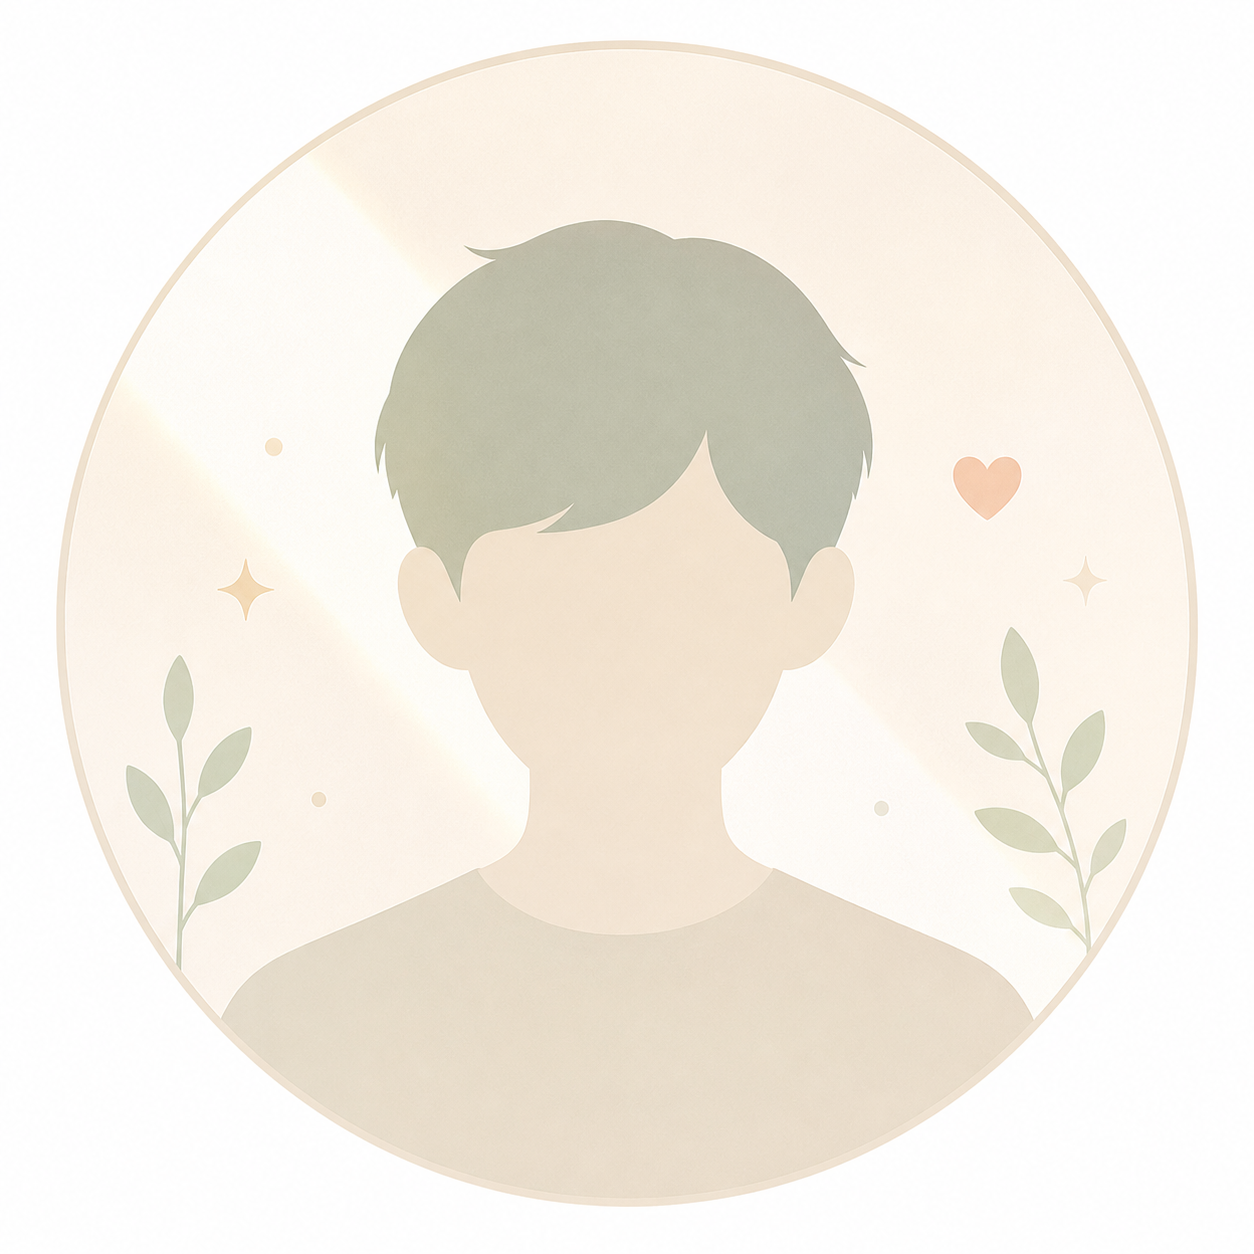
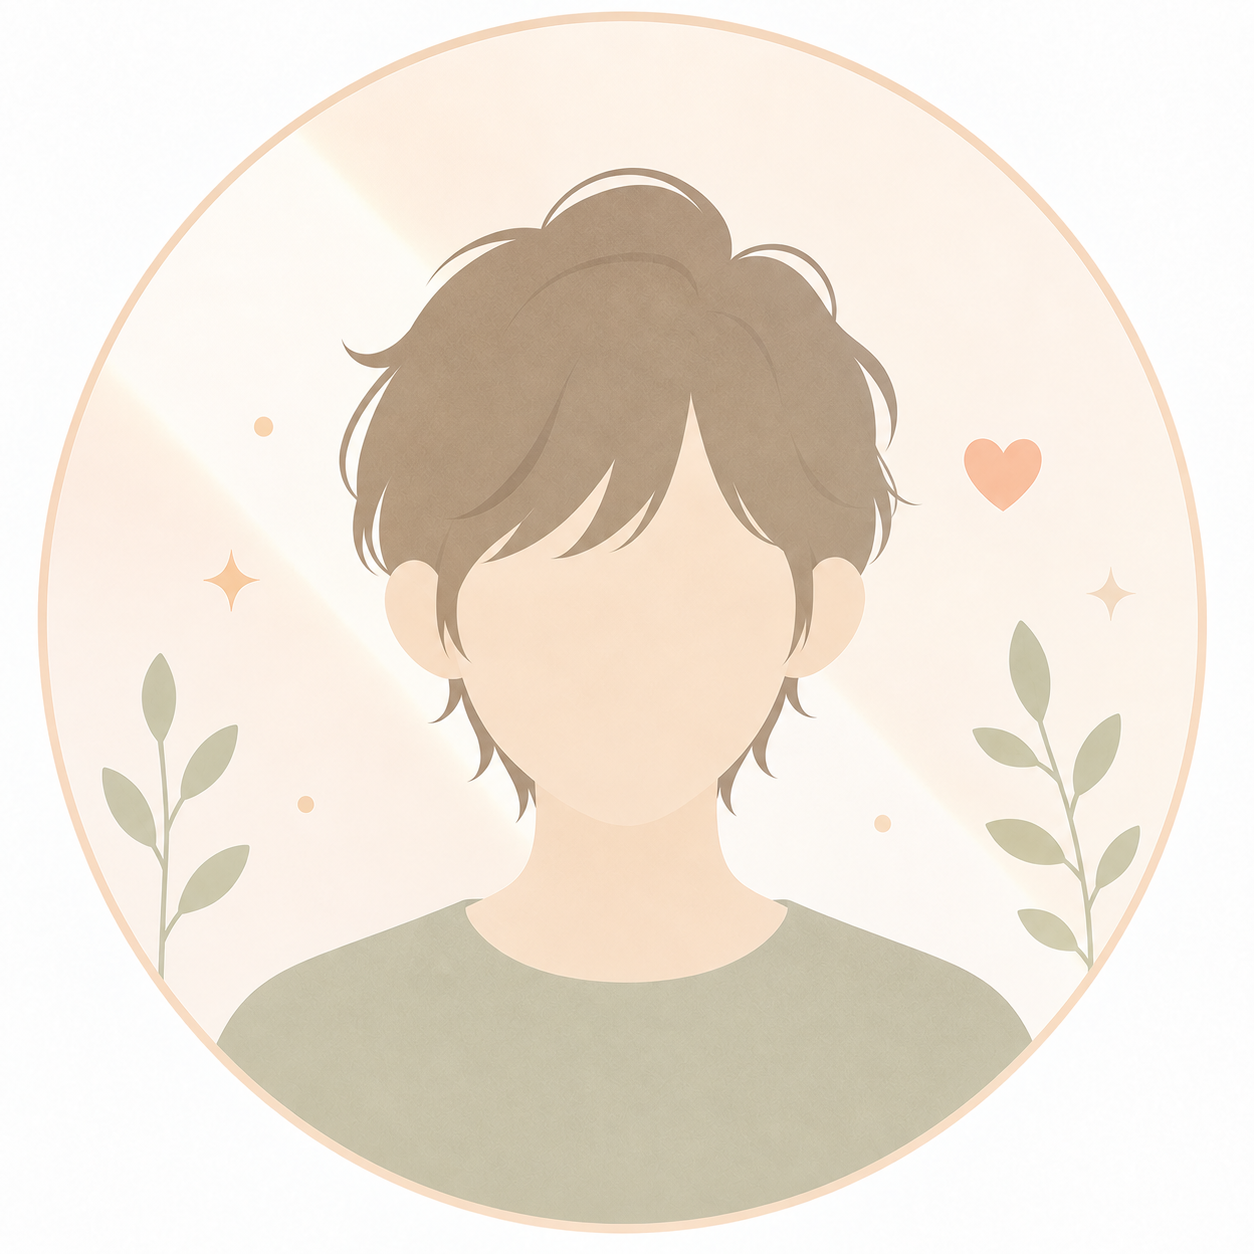
[fix&feat] 캘린더를 table로 변경 + NONE 성별 대응 이미지 추가

diff --git a/src/pages/profilepage/EmotionCalendar.jsx b/src/pages/profilepage/EmotionCalendar.jsx
@@ -4,6 +4,7 @@ import {
     formatYearMonthLabel,
     formatDayLabel,
     todayDateString,
+    isFutureDate,
 } from "./calendarView";
 
 const WEEKDAYS = ["일", "월", "화", "수", "목", "금", "토"];
@@ -17,7 +18,10 @@ const LEVEL_CLASSES = {
     5: "bg-primary-dark/70",
 };
 
-const BLANK_CLASS = "bg-primary-light/20 border-primary-dark/10 text-textSecondary/60";
+// 기록 없는 지난 날 — 글자는 투명도 없이 textSecondary 그대로(배경 대비 약 6:1). 이전에 /60을 줘서 2.6:1로 떨어졌던 것을 바로잡음
+const BLANK_CLASS = "bg-primary-light/20 border-primary-dark/10 text-textSecondary";
+// 오늘 이후 날짜 — 아직 오지 않은 날이라 배경·테두리를 걷고 흐리게(기록이 있을 수 없는 칸이라 호버·클릭 대상도 아님)
+const FUTURE_CLASS = "border-transparent bg-transparent text-textSecondary opacity-40";
 const LEVEL_BORDER_CLASS = "border-primary-dark/20 text-textPrimary";
 // 기록은 있지만 분석이 없거나 실패한 날 — 색 대신 점선 테두리로 "기록 있음"만 알림
 const NO_SCORE_CLASS = "bg-white/40 border-dashed border-primary-dark/50 text-textPrimary";
@@ -31,18 +35,19 @@ const NAV_BUTTON_CLASS =
     "rounded-lg border border-primary-dark/20 px-3 py-1.5 text-sm text-textSecondary " +
     "hover:bg-primary-light/30 disabled:opacity-40 disabled:cursor-not-allowed disabled:hover:bg-transparent";
 
-const DayCell = ({ cell, info, isToday }) => {
-    if (!cell) return <div role="gridcell" aria-hidden="true" />;
+const DayCell = ({ cell, info, isToday, isFuture }) => {
+    if (!cell) return <div role="cell" aria-hidden="true" />;
 
-    const stateClass = !info
-        ? BLANK_CLASS
-        : info.level === null
-          ? NO_SCORE_CLASS
-          : `${LEVEL_CLASSES[info.level]} ${LEVEL_BORDER_CLASS}`;
+    // 미래 > 기록 없음 > 분석 없는 기록(점선) > 점수 명암 순으로 정함
+    let stateClass;
+    if (isFuture) stateClass = FUTURE_CLASS;
+    else if (!info) stateClass = BLANK_CLASS;
+    else if (info.level === null) stateClass = NO_SCORE_CLASS;
+    else stateClass = `${LEVEL_CLASSES[info.level]} ${LEVEL_BORDER_CLASS}`;
 
     return (
         <div
-            role="gridcell"
+            role="cell"
             aria-label={formatDayLabel(cell.date, info?.entryCount)}
             aria-current={isToday ? "date" : undefined}
             className={`relative h-12 sm:h-16 rounded-md border flex items-center justify-center text-sm ${stateClass} ${
@@ -53,7 +58,7 @@ const DayCell = ({ cell, info, isToday }) => {
             {info && info.entryCount > 1 && (
                 <span
                     aria-hidden="true"
-                    className="absolute right-1 top-0.5 text-[10px] leading-none text-textSecondary"
+                    className="absolute right-1 top-0.5 text-[11px] font-semibold leading-none text-textPrimary"
                 >
                     ×{info.entryCount}
                 </span>
@@ -92,7 +97,9 @@ const EmotionCalendar = ({ yearMonth, days, loading, canNext, onPrev, onNext }) 
                 </button>
             </div>
 
-            <div role="grid" aria-label={`${formatYearMonthLabel(yearMonth)} 감정 캘린더`}>
+            {/* 보기 전용 표라 role="table"로 둠 — "grid"는 화살표 키로 칸을 옮기는 위젯이라는 약속이라 키보드 이동이 없는 지금은 맞지 않음.
+                날짜 이동(⑦)이 붙어 칸이 링크가 돼도 표 안의 링크로 접근 가능하고, 화살표 이동까지 구현할 때 grid로 올리면 됨 */}
+            <div role="table" aria-label={`${formatYearMonthLabel(yearMonth)} 감정 캘린더`}>
                 <div role="row" className="grid grid-cols-7 gap-1.5 sm:gap-2 mb-1.5 sm:mb-2">
                     {WEEKDAYS.map((weekday) => (
                         <div
@@ -105,7 +112,7 @@ const EmotionCalendar = ({ yearMonth, days, loading, canNext, onPrev, onNext }) 
                     ))}
                 </div>
 
-                <div className={`space-y-1.5 sm:space-y-2 transition-opacity ${loading ? "opacity-60" : ""}`}>
+                <div role="rowgroup" className={`space-y-1.5 sm:space-y-2 transition-opacity ${loading ? "opacity-60" : ""}`}>
                     {weeks.map((week, weekIndex) => (
                         <div key={weekIndex} role="row" className="grid grid-cols-7 gap-1.5 sm:gap-2">
                             {week.map((cell, cellIndex) => (
@@ -114,6 +121,7 @@ const EmotionCalendar = ({ yearMonth, days, loading, canNext, onPrev, onNext }) 
                                     cell={cell}
                                     info={cell ? indexed[cell.date] : undefined}
                                     isToday={cell?.date === today}
+                                    isFuture={cell ? isFutureDate(cell.date) : false}
                                 />
                             ))}
                         </div>

diff --git a/src/pages/profilepage/calendarView.test.js b/src/pages/profilepage/calendarView.test.js
@@ -2,6 +2,7 @@ import { describe, expect, it } from "vitest";
 import {
     currentYearMonth,
     todayDateString,
+    isFutureDate,
     shiftYearMonth,
     canGoNext,
     formatYearMonthLabel,
@@ -23,6 +24,29 @@ describe("currentYearMonth / todayDateString", () => {
         const early = new Date(2026, 0, 5);
         expect(currentYearMonth(early)).toBe("2026-01");
         expect(todayDateString(early)).toBe("2026-01-05");
+    });
+});
+
+describe("isFutureDate", () => {
+    it("오늘보다 뒤면 미래다", () => {
+        expect(isFutureDate("2026-10-03", now)).toBe(true);
+        expect(isFutureDate("2026-11-01", now)).toBe(true);
+        expect(isFutureDate("2027-01-01", now)).toBe(true);
+    });
+
+    it("오늘과 지난 날짜는 미래가 아니다", () => {
+        expect(isFutureDate("2026-10-02", now)).toBe(false);
+        expect(isFutureDate("2026-10-01", now)).toBe(false);
+        expect(isFutureDate("2025-12-31", now)).toBe(false);
+    });
+
+    it("시각과 무관하게 날짜만 본다(오늘 자정 직전·직후도 같은 날)", () => {
+        expect(isFutureDate("2026-10-02", new Date(2026, 9, 2, 0, 0, 0))).toBe(false);
+        expect(isFutureDate("2026-10-03", new Date(2026, 9, 2, 23, 59, 59))).toBe(true);
+    });
+
+    it.each([null, undefined, "", "2026-10", "2026-10-3", "내일"])("형식이 틀리면(%s) false다", (value) => {
+        expect(isFutureDate(value, now)).toBe(false);
     });
 });
 

diff --git a/src/components/common/ProfileAvatar.jsx b/src/components/common/ProfileAvatar.jsx
@@ -1,13 +1,14 @@
 import { resolveAvatarKey } from "../../utils/avatar";
 import defaultMale from "../../assets/myPage/default_M.png";
 import defaultFemale from "../../assets/myPage/default_F.png";
+import defaultNone from "../../assets/myPage/default_N.png";
 
 // 성별(MALE | FEMALE | NONE)별 기본 아바타 — 마이페이지와 내비게이션이 함께 씀
-// TODO: NONE(비공개)용 이미지는 새로 만들 예정 — 그때까지 임시로 MALE 이미지를 씀
+// NONE(비공개)은 성별을 드러내지 않는 중립 이미지
 const AVATARS = {
     MALE: defaultMale,
     FEMALE: defaultFemale,
-    NONE: defaultMale,
+    NONE: defaultNone,
 };
 
 const ProfileAvatar = ({ gender, sizeClass = "w-16 h-16" }) => (

diff --git a/src/pages/profilepage/calendarView.js b/src/pages/profilepage/calendarView.js
@@ -19,6 +19,10 @@ export const currentYearMonth = (now = new Date()) => `${now.getFullYear()}-${pa
 export const todayDateString = (now = new Date()) =>
     `${now.getFullYear()}-${pad(now.getMonth() + 1)}-${pad(now.getDate())}`;
 
+// 오늘보다 뒤의 날짜인가 — "YYYY-MM-DD" 고정 형식이라 사전순 비교가 곧 시간순. 형식이 틀리면 false(오늘로 취급하지 않고 그냥 일반 칸)
+export const isFutureDate = (date, now = new Date()) =>
+    DATE_PATTERN.test(String(date ?? "")) && date > todayDateString(now);
+
 // 월 이동 — 연도를 넘겨서 계산, 형식이 틀리면 null
 export const shiftYearMonth = (yearMonth, delta) => {
     const parsed = parseYearMonth(yearMonth);
